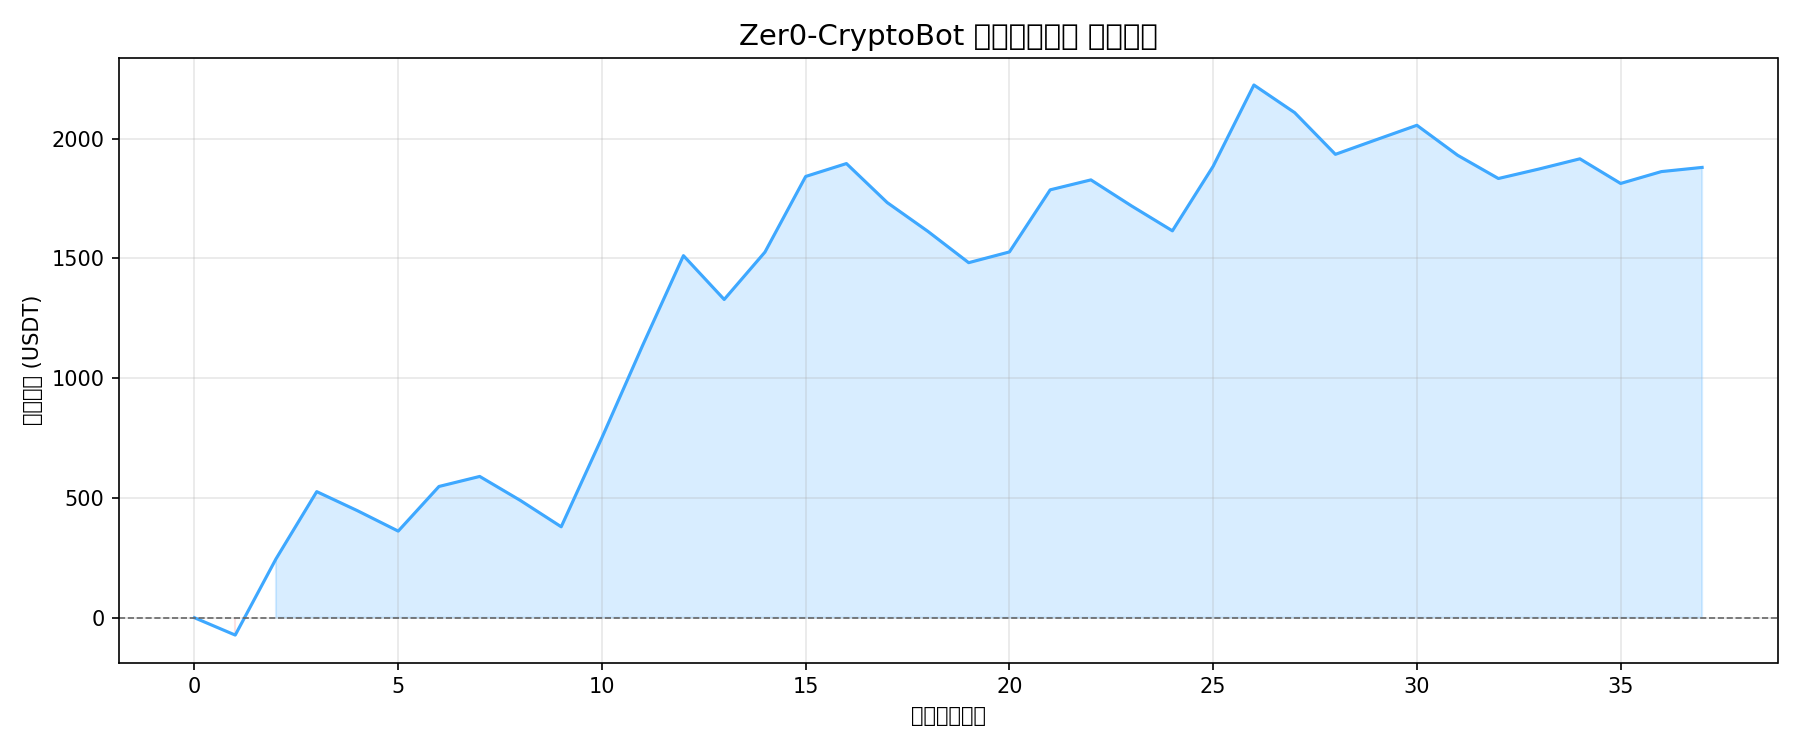
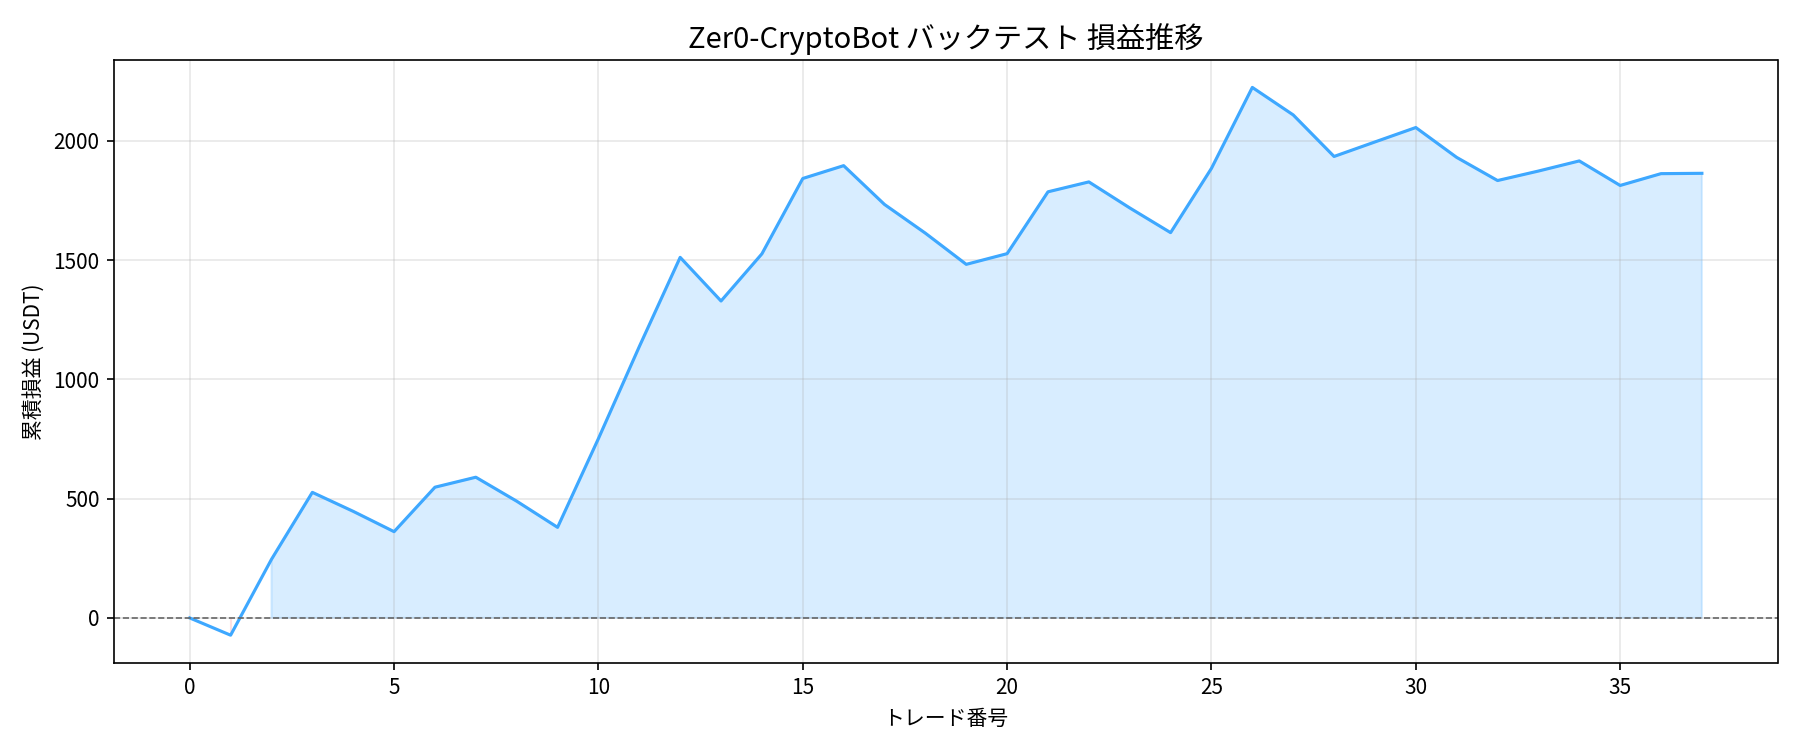
auto-sync: 2026-04-24 14:47

diff --git a/006_zer0-cryptobot/backtest/backtest.py b/006_zer0-cryptobot/backtest/backtest.py
@@ -13,6 +13,10 @@ import numpy as np
 import matplotlib
 matplotlib.use("Agg")
 import matplotlib.pyplot as plt
+from matplotlib import font_manager
+
+font_manager.fontManager.addfont("/usr/share/fonts/opentype/noto/NotoSansCJK-Regular.ttc")
+matplotlib.rcParams["font.family"] = "Noto Sans CJK JP"
 from datetime import datetime, timezone
 
 # ── 設定 ──────────────────────────────────────────────
